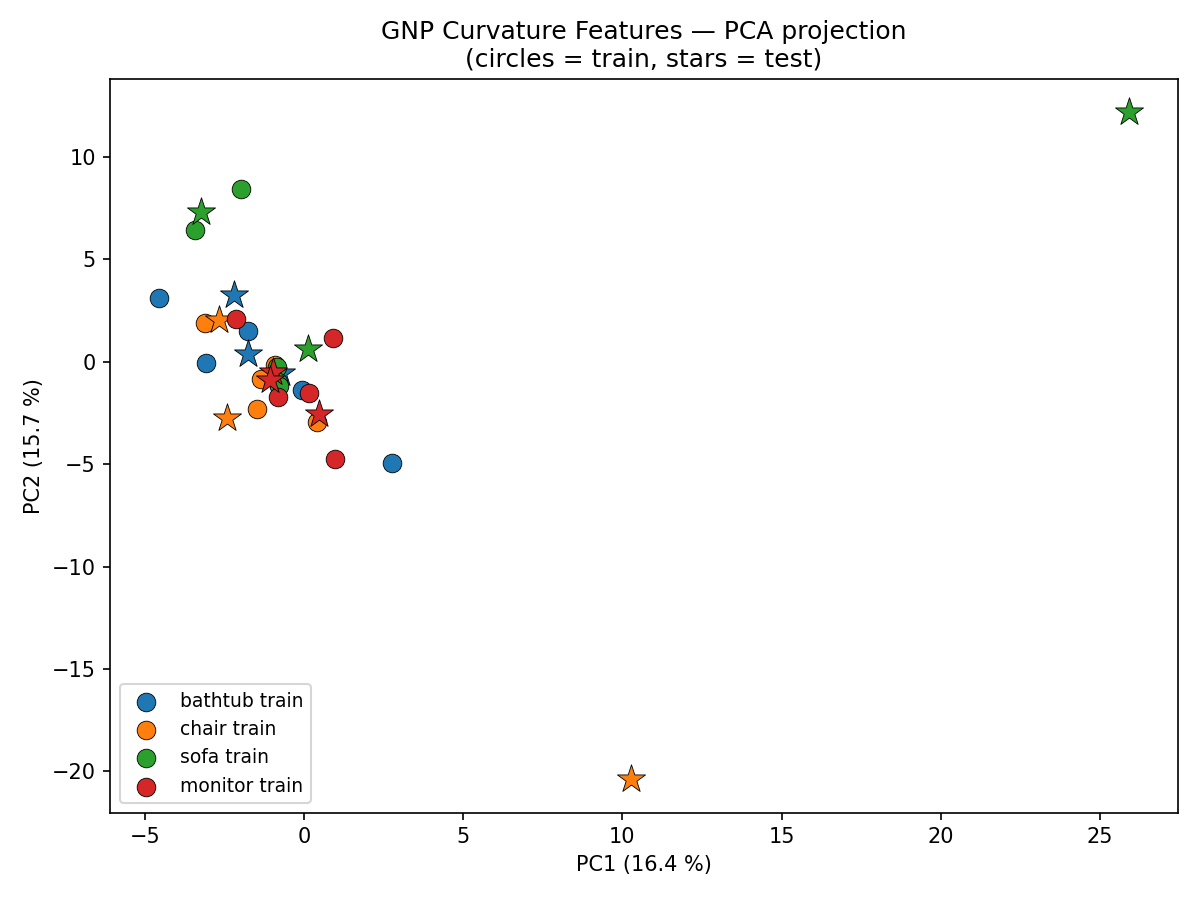
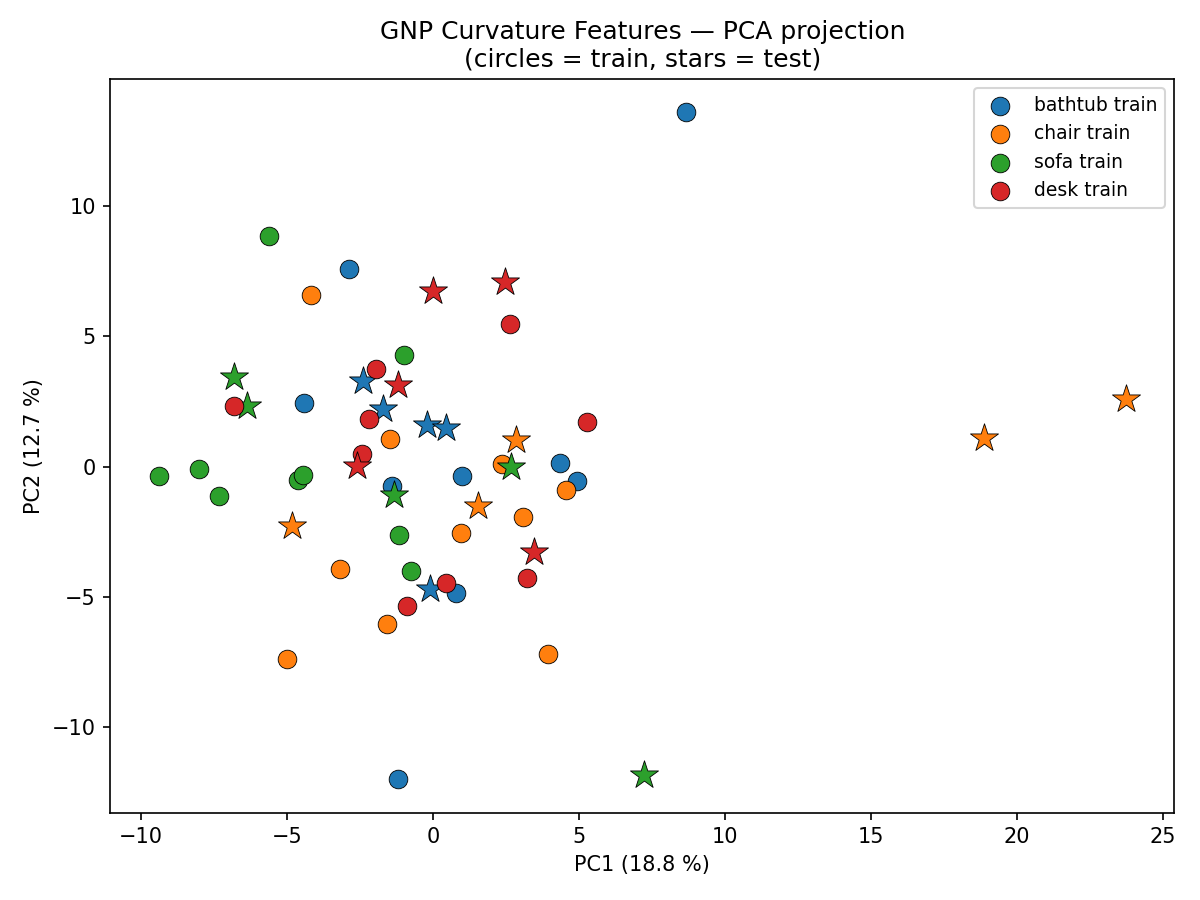
param editing

diff --git a/geo_neural_op-main/train_svm.py b/geo_neural_op-main/train_svm.py
@@ -50,16 +50,16 @@ from gnp.estimator import GeometryEstimator
 from features import extract_features
 
 # ── Configuration ─────────────────────────────────────────────────────────────
-CLASSES           = ['bathtub', 'chair', 'sofa', 'monitor']
+CLASSES           = ['bathtub', 'chair', 'sofa', 'desk']
 MODELNET_ROOT     = SCRIPT_DIR.parent / 'ModelNet10'
 N_TRAIN_PER_CLASS = 10
 N_TEST_PER_CLASS  = 5
-N_POINTS_SAMPLE   = 3000
-SMOOTH_ITERATIONS = 20
+N_POINTS_SAMPLE   = 5000
+SMOOTH_ITERATIONS = 1
 SMOOTH_LAM        = 0.5
 KNN_K             = 12
-INDICATOR_BINS    = 4       # → 3×4 = 12 half-space features per signal
-VOXEL_BINS        = 3       # → 3³  = 27 voxel features per signal
+INDICATOR_BINS    = 2       # → 3×4 = 12 half-space features per signal
+VOXEL_BINS        = 2       # → 3³  = 27 voxel features per signal
 N_FOURIER         = 64      # → 64  random Fourier features per signal
 # Total: (12 + 27 + 64) × 2 signals = 202 features per shape
 
@@ -76,7 +76,7 @@ def sample_mesh_to_points(mesh_path, n_points):
     return np.asarray(pcd.points)
 
 
-def laplacian_smooth(points, k=12, iterations=20, lam=0.5):
+def laplacian_smooth(points, k=12, iterations=1, lam=0.5):
     tree = KDTree(points)
     N = len(points)
     distances, indices = tree.query(points, k=k)
